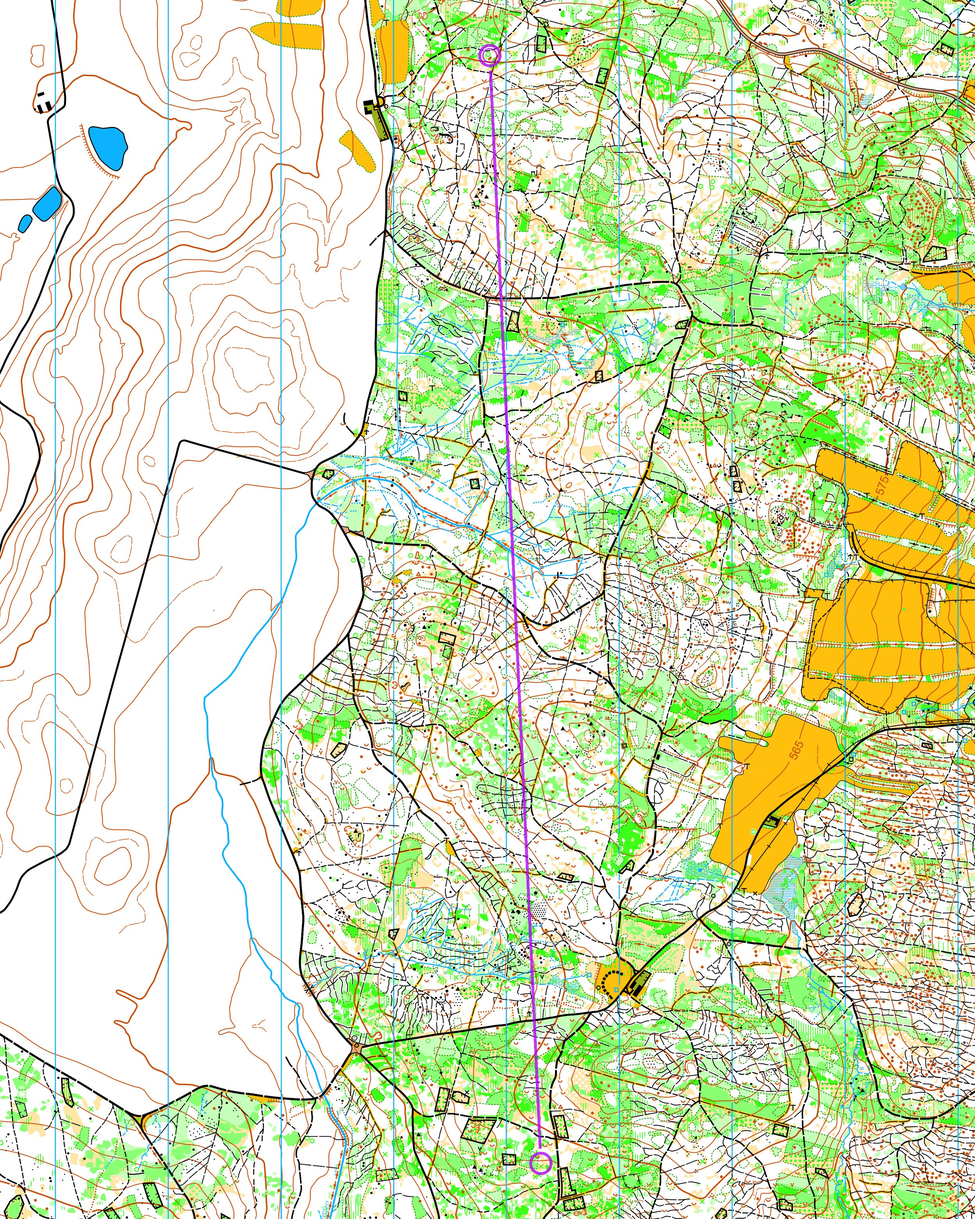
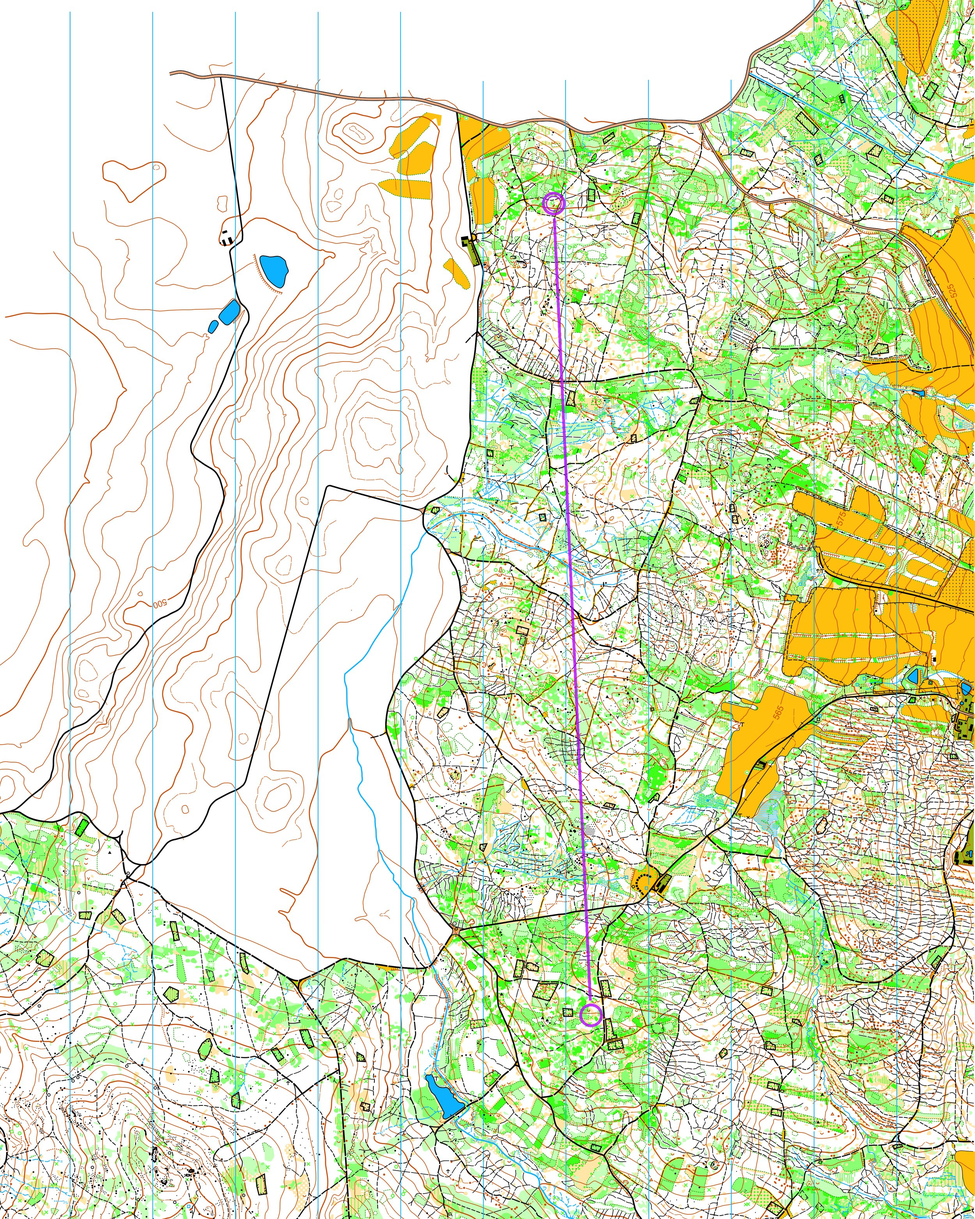
fix: omezeni translate3d bounds pro explore drift, fixnuti bileno mista zmenou padding ratia v bbox generatoru pythonu, zmena sirky drfit obalky na 500%

diff --git a/export/style.css b/export/style.css
@@ -331,10 +331,10 @@ html, body {
 }
 
 @keyframes mapDrift {
-  0% { transform: translate3d(-10%, -10%, 0); }
-  33% { transform: translate3d(-30%, -40%, 0); }
-  66% { transform: translate3d(-50%, -20%, 0); }
-  100% { transform: translate3d(-20%, -50%, 0); }
+  0% { transform: translate3d(-35%, -35%, 0); }
+  33% { transform: translate3d(-45%, -40%, 0); }
+  66% { transform: translate3d(-40%, -50%, 0); }
+  100% { transform: translate3d(-45%, -35%, 0); }
 }
 
 .animated-route-follow {
@@ -349,8 +349,8 @@ html, body {
 }
 
 @keyframes routeFollow {
-  0% { transform: translate3d(calc(-1 * var(--start-x, 50%) + 14.28%), calc(-1 * var(--start-y, 50%) + 14.28%), 0); }
-  100% { transform: translate3d(calc(-1 * var(--end-x, 50%) + 14.28%), calc(-1 * var(--end-y, 50%) + 14.28%), 0); }
+  0% { transform: translate3d(clamp(-71.4%, calc(-1 * var(--start-x, 50%) + 14.28%), 0%), clamp(-71.4%, calc(-1 * var(--start-y, 50%) + 14.28%), 0%), 0); }
+  100% { transform: translate3d(clamp(-71.4%, calc(-1 * var(--end-x, 50%) + 14.28%), 0%), clamp(-71.4%, calc(-1 * var(--end-y, 50%) + 14.28%), 0%), 0); }
 }
 
 .grid-icon {

diff --git a/export/app.js b/export/app.js
@@ -2261,7 +2261,7 @@ function renderExploreGrid() {
         const thumbSrc = 'thumbs/map_' + group.map_id + '.jpg';
         
         el.innerHTML = `
-            <div class="animated-map-drift" style="position: absolute; top: 0; left: 0; width: 350%; height: 350%;">
+            <div class="animated-map-drift" style="position: absolute; top: 0; left: 0; width: 500%; height: 500%;">
                 <img src="${thumbSrc}" alt="${group.map_name}" style="width: 100%; height: 100%; object-fit: cover; display: block;" loading="lazy">
             </div>
             <div style="position:absolute; bottom:0; left:0; width:100%; background:linear-gradient(to top, rgba(0,0,0,0.85) 0%, rgba(0,0,0,0.3) 70%, transparent 100%); color:#fff; font-size:13px; padding:12px 8px 8px 8px; box-sizing:border-box; z-index: 1000;">

diff --git a/14_export_thumbnails.py b/14_export_thumbnails.py
@@ -21,8 +21,8 @@ THUMB_HEIGHT = int(THUMB_WIDTH / TARGET_ASPECT)  # = 1250
 # JPEG kvalita (85 = dobrý kompromis ostrost vs. velikost)
 JPEG_QUALITY = 85
 
-# Padding kolem bounding boxu (v pixelech originální mapy)
-BBOX_PADDING_RATIO = 0.05  # Velmi těsný ořez pro co největší detail
+# Padding pro vyříznutí mapy kolem postupu (zajišťuje dostatek "masa" pro zoom bez přejetí mimo mapu)
+BBOX_PADDING_RATIO = 0.35  # Velmi těsný ořez pro co největší detail
 
 # Maximální šířka výřezu originální mapy pro zaručení vysokého detailu i u dlouhých postupů
 MAX_CROP_WIDTH = 1600
